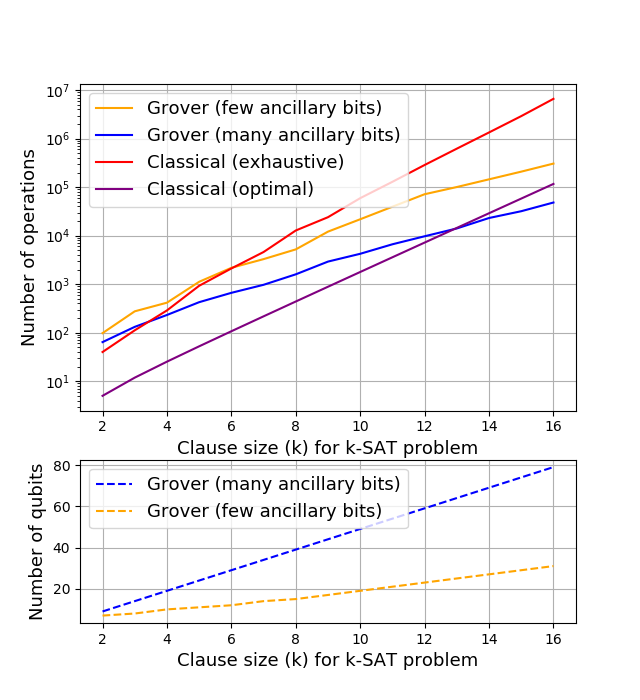
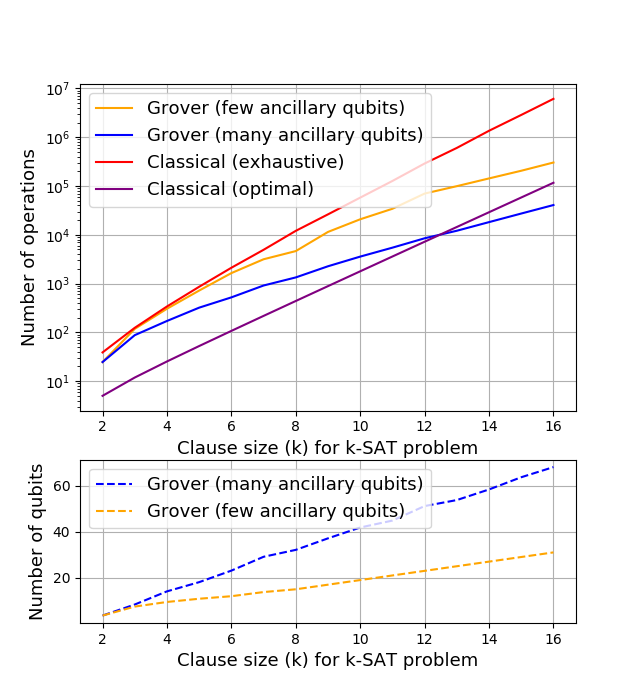
Add gate reuse to improve normal SAT mode

diff --git a/create_plots.py b/create_plots.py
@@ -31,10 +31,10 @@ for i in range(3, 12):
 plt.yscale("log")
 plt.xlabel("Length of search string", fontsize=FONTSIZE_AXES)
 plt.ylabel("Number of quantum operations", fontsize=FONTSIZE_AXES)
-plt.plot(x_values, unopt_fancy_values, c="red", ls="-", label="No ancillary bits")
-plt.plot(x_values, opt_fancy_values, c="green", ls="-", label="No ancillary bits (optimized)")
-plt.plot(x_values, unopt_norm_values, c="orange", ls="-", label="N-3 ancillary bits")
-plt.plot(x_values, opt_norm_values, c="blue", ls="-", label="N-3 ancillary bits (optimized)")
+plt.plot(x_values, unopt_fancy_values, c="red", ls="-", label="No ancillary qubits")
+plt.plot(x_values, opt_fancy_values, c="green", ls="-", label="No ancillary qubits (optimized)")
+plt.plot(x_values, unopt_norm_values, c="orange", ls="-", label=r"$n-3$ ancillary qubits")
+plt.plot(x_values, opt_norm_values, c="blue", ls="-", label=r"$n-3$ ancillary qubits (optimized)")
 plt.legend(fontsize=FONTSIZE_LEGEND, loc="upper left")
 plt.grid()
 
@@ -43,6 +43,10 @@ plt.show()
 
 
 # SAT VS CLASSICAL PLOT
+
+xrange = list(range(2, 17))
+batch_size = 10
+
 x_values = []
 sat_values_normal = []
 sat_values_fancy = []
@@ -52,24 +56,34 @@ classical_values_decent = []
 qubit_counts_normal = []
 qubit_counts_fancy = []
 
-for i in range(2, 17):
+for i in xrange:
+    sat_values_normal.append(0)
+    sat_values_fancy.append(0)
+    classical_values_decent.append(0)
+    classical_values_exhaustive.append(0)
+    qubit_counts_normal.append(0)
+    qubit_counts_fancy.append(0)
+
+for i in xrange:
     x_values.append(i)
 
     group_count = 4
     group_size = i
     alphabet_size = i
-    bool_expression = generate_ksat_expression(group_count, group_size, alphabet_size)
-    _, sat_val_normal, qubit_count_normal, _ = grover_sat_qasm(bool_expression, "normal", sat_mode="normal")
-    _, sat_val_fancy, qubit_count_fancy, _ = grover_sat_qasm(bool_expression, "normal", sat_mode="fancy")
 
-    sat_values_normal.append(sat_val_normal)
-    sat_values_fancy.append(sat_val_fancy)
-    qubit_counts_normal.append(qubit_count_normal)
-    qubit_counts_fancy.append(qubit_count_fancy)
+    for j in range(batch_size):
+        bool_expression = generate_ksat_expression(group_count, group_size, alphabet_size)
+        _, sat_val_normal, qubit_count_normal, _ = grover_sat_qasm(bool_expression, "normal", sat_mode="normal")
+        _, sat_val_fancy, qubit_count_fancy, _ = grover_sat_qasm(bool_expression, "normal", sat_mode="fancy")
 
-    operation_count = bool_expression.count("or") + bool_expression.count("not") + bool_expression.count("and")
-    classical_values_exhaustive.append((2 ** alphabet_size) * operation_count)
-    classical_values_decent.append((2 * (1 - 1/group_size)) ** alphabet_size * 5)
+        sat_values_normal[i-2] += sat_val_normal / batch_size
+        sat_values_fancy[i-2] += sat_val_fancy / batch_size
+        qubit_counts_normal[i-2] += qubit_count_normal / batch_size
+        qubit_counts_fancy[i-2] += qubit_count_fancy / batch_size
+
+        operation_count = bool_expression.count("or") + bool_expression.count("not") + bool_expression.count("and")
+        classical_values_exhaustive[i-2] += (2 ** alphabet_size) * operation_count / batch_size
+        classical_values_decent[i-2] += (2 * (1 - 1/group_size)) ** alphabet_size * 5 / batch_size
 
 fig, (ax1, ax2) = plt.subplots(nrows=2, gridspec_kw={'height_ratios': [2, 1]})
 fig.set_figheight(7)
@@ -78,8 +92,8 @@ fig.set_figheight(7)
 ax1.set_yscale("log")
 ax1.set_xlabel("Clause size (k) for k-SAT problem", fontsize=FONTSIZE_AXES)
 ax1.set_ylabel("Number of operations", fontsize=FONTSIZE_AXES)
-ax1.plot(x_values, sat_values_fancy, c="orange", ls="-", label="Grover (few ancillary bits)")
-ax1.plot(x_values, sat_values_normal, c="blue", ls="-", label="Grover (many ancillary bits)")
+ax1.plot(x_values, sat_values_fancy, c="orange", ls="-", label="Grover (few ancillary qubits)")
+ax1.plot(x_values, sat_values_normal, c="blue", ls="-", label="Grover (many ancillary qubits)")
 ax1.plot(x_values, classical_values_exhaustive, c="red", ls="-", label="Classical (exhaustive)")
 ax1.plot(x_values, classical_values_decent, c="purple", ls="-", label="Classical (optimal)")
 ax1.grid()
@@ -87,8 +101,8 @@ ax1.grid()
 ax2.set_yscale("linear")
 ax2.set_xlabel("Clause size (k) for k-SAT problem", fontsize=FONTSIZE_AXES)
 ax2.set_ylabel("Number of qubits", fontsize=FONTSIZE_AXES)
-ax2.plot(x_values, qubit_counts_normal, c="blue", ls="--", label="Grover (many ancillary bits)")
-ax2.plot(x_values, qubit_counts_fancy, c="orange", ls="--", label="Grover (few ancillary bits)")
+ax2.plot(x_values, qubit_counts_normal, c="blue", ls="--", label="Grover (many ancillary qubits)")
+ax2.plot(x_values, qubit_counts_fancy, c="orange", ls="--", label="Grover (few ancillary qubits)")
 ax2.grid()
 
 ax1.legend(fontsize=FONTSIZE_LEGEND, loc="upper left")

diff --git a/src/grover/sat_utilities.py b/src/grover/sat_utilities.py
@@ -16,27 +16,37 @@ def generate_sat_oracle(expr: boolean.Expression, control_names, is_toplevel=Fal
     """
 
     global global_last_ancillary_index
+    global expressions_calculated
+
     if is_toplevel:
         global_last_ancillary_index = len(control_names)
+        expressions_calculated = {}
     local_qasm = ""
 
     # go through possible types
     if type(expr) == AND or type(expr) == OR:
         # left side
-        left_qasm, left_qubit= generate_sat_oracle(expr.args[0], control_names)
-        right_qasm, right_qubit = generate_sat_oracle(expr.args[1], control_names)
+        left_qasm, left_qubit, _ = generate_sat_oracle(expr.args[0], control_names)
+        expressions_calculated[expr.args[0]] = left_qubit
+        right_qasm, right_qubit, _ = generate_sat_oracle(expr.args[1], control_names)
+        expressions_calculated[expr.args[1]] = right_qubit
         local_qasm += left_qasm
         local_qasm += right_qasm
     elif type(expr) == NOT:
-        inner_qasm, inner_qubit = generate_sat_oracle(expr.args[0], control_names)
+        inner_qasm, inner_qubit, _ = generate_sat_oracle(expr.args[0], control_names)
         local_qasm += inner_qasm
         local_qasm += "X q[{}]\n".format(inner_qubit)
-        return local_qasm, inner_qubit
+        return local_qasm, inner_qubit, global_last_ancillary_index
     elif type(expr) == Symbol:
         # nothing to do here
-        return local_qasm, control_names.index(expr)
+        return local_qasm, control_names.index(expr), global_last_ancillary_index
     else:
         raise ValueError("Unknown boolean expr type: {}".format(type(expr)))
+
+    if expr in expressions_calculated:
+        already_calculated_index = expressions_calculated[expr]
+        # we don't need to add any qasm, just say where this expression can be found
+        return "", already_calculated_index, global_last_ancillary_index
 
     if is_toplevel:
         target_qubit = len(control_names)
@@ -59,18 +69,27 @@ def generate_sat_oracle(expr: boolean.Expression, control_names, is_toplevel=Fal
         if type(expr.args[1]) == NOT:
             local_qasm += "X q[{}]\n".format(right_qubit)
 
+    # indicate to other calls of this function that this expression has been generated already
+    expressions_calculated[expr] = target_qubit
+
     if is_toplevel:
         local_qasm += "\n".join(left_half_qasm.split("\n")[::-1])
         return local_qasm, target_qubit, global_last_ancillary_index
 
-    return local_qasm, target_qubit
+    return local_qasm, target_qubit, global_last_ancillary_index
 
 
 def generate_and(qubit_1, qubit_2, target_qubit):
+    if qubit_1 == qubit_2:
+        return "CNOT q[{}],q[{}]\n".format(qubit_1, target_qubit)
+
     return "Toffoli q[{}],q[{}],q[{}]\n".format(qubit_1, qubit_2, target_qubit)
 
 
 def generate_or(qubit_1, qubit_2, target_qubit):
+    if qubit_1 == qubit_2:
+        return "CNOT q[{}],q[{}]\n".format(qubit_1, target_qubit)
+
     local_qasm = "X q[{},{}]\n".format(qubit_1, qubit_2)
     local_qasm += generate_and(qubit_1, qubit_2, target_qubit)
     local_qasm += "X q[{},{},{}]\n".format(qubit_1, qubit_2, target_qubit)

diff --git a/src/grover/qasm_utilities.py b/src/grover/qasm_utilities.py
@@ -87,7 +87,7 @@ def normal_n_size_cnot(n, mode):
                 gate_list.append("Toffoli q[{}],q[{}],q[{}]".format(a, b, target))
 
         # Apply the complete list of gates in reverse after the target is flipped
-        # This undoes all operations on the ancillary bits (so they remain 0)
+        # This undoes all operations on the ancillary qubits (so they remain 0)
         gate_list = gate_list + gate_list[-2::-1]
         local_qasm = "\n".join(gate_list) + "\n"
 
@@ -257,11 +257,11 @@ def interpret_results(result_dict, qubit_count, data_qubits, plot=True):
 
     if plot:
         for b in ordered_bars:
-            # check if the given bar has 0's for all the ancillary bits
+            # check if the given bar has 0's for all the ancillary qubits
             # if it does not, we assume it is irrelevant for the histogram, so we don't plot it
             if int(b[0], 16) < 2 ** data_qubits:
                 plt.bar(b[0], b[1])
-            # if a result is returned where some ancillary bits were not zero, we have a problem
+            # if a result is returned where some ancillary qubits were not zero, we have a problem
             elif b[1] != 0:
                 raise ValueError("\tNonzero result from 'impossible' measurement:\n"
                                  "\tColumn {} has fraction {}. This means not all control bits were 0!".format(b[0],
@@ -293,7 +293,7 @@ def gray_code(n):
 def fancy_cnot(n):
     """
     Generate a circuit equivalent to an n-bit CNOT.
-    This avoids using Toffoli gates or ancillary bits.
+    This avoids using Toffoli gates or ancillary qubits.
     Args:
         n: Number of control bits
 

diff --git a/main.py b/main.py
@@ -17,10 +17,10 @@ SHOT_COUNT = 500
 OPTIMIZE = True
 
 # MODES:
-#   - normal: use toffoli gates and ancillary bits for max speed
-#   - no toffoli: same as normal, but replace toffoli gates for 2-gate equivalent circuits. uses ancillary bits.
-#   - crot: no ancillary bits or toffoli gates, but scales with 3^n gates for n bits
-#   - fancy cnot: no ancillary bits or toffoli gates, scales 2^n
+#   - normal: use toffoli gates and ancillary qubits for max speed
+#   - no toffoli: same as normal, but replace toffoli gates for 2-gate equivalent circuits. uses ancillary qubits.
+#   - crot: no ancillary qubits or toffoli gates, but scales with 3^n gates for n bits
+#   - fancy cnot: no ancillary qubits or toffoli gates, scales 2^n
 MODE = "normal"
 
 
@@ -40,7 +40,7 @@ MODE = "normal"
 # BOOL_EXPR = "(a and b and c and d) or (a and b and not(c) and not(d))"
 # BOOL_EXPR = generate_ksat_expression(4, 5, 5)
 # BOOL_EXPR = "(c or not(d) or a or not(b) or not(e)) and (c or not(e) or not(a) or not(b) or d) and (a or e or b or not(d) or c) and (b or a or not(c) or e or d)"
-BOOL_EXPR = "(a and b) and (a and b)"
+BOOL_EXPR = "(a and b and c and d) or (a and b and c and d)"
 qasm, _, qubit_count, data_qubits = grover_sat_qasm(BOOL_EXPR, MODE, sat_mode="normal")
 print(qasm)
 # write_file = open("qasms/latest_sat.qasm", "w")

diff --git a/src/grover/run_grover.py b/src/grover/run_grover.py
@@ -29,7 +29,7 @@ def grover_sat_qasm(expr_string, cnot_mode, sat_mode="fancy", apply_optimization
     # note that the number of data qubits also includes an extra bit which must be 1 for the algorithm to succeed
     data_qubits = len(control_names) + 1
 
-    expr = split_expression_evenly(expr)
+    expr = split_expression_evenly(expr.simplify())
 
     if sat_mode == "normal":
         oracle_qasm, _, last_qubit_index = generate_sat_oracle(expr, control_names, is_toplevel=True)
